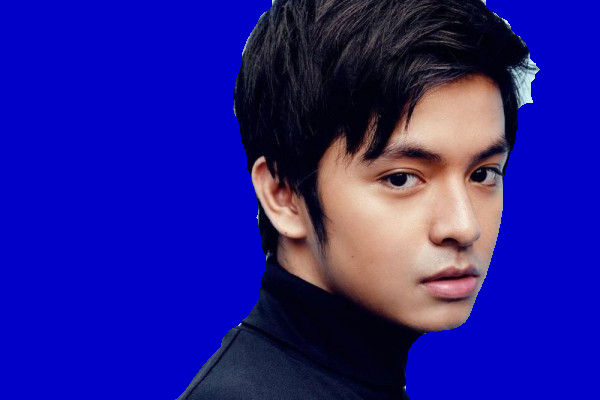
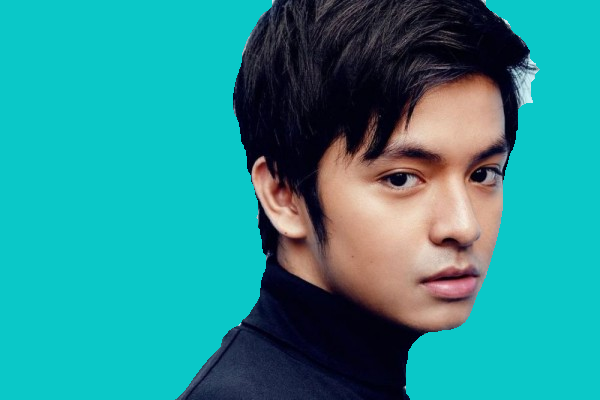
perbarui

diff --git a/backend.py b/backend.py
@@ -1,7 +1,6 @@
 from Gui import Gui, GuiEventListener
 import numpy as np
 import cv2 as cv
-import time
 from matplotlib import pyplot as plt
 import sys
 from PIL import Image
@@ -25,19 +24,23 @@ class Backend(GuiEventListener):
         self.__window = window
 
     def Remove(self, file):
+        # Membaca file gambar
         img = cv.imread(file)
         original = img.copy()
 
+        # deteksi edge object
         blur = cv.GaussianBlur(img, (3, 3), 0)
         gray = cv.cvtColor(blur, cv.COLOR_BGR2GRAY)
         l, thresh_im = cv.threshold(gray, 0, 255, cv.THRESH_BINARY  + cv.THRESH_OTSU)
         u = 0.5*l
         edges = cv.Canny(gray, l, u)
 
+        # melakukan morphologu close
         _, thresh = cv.threshold(edges, 0, 255, cv.THRESH_BINARY + cv.THRESH_OTSU)
         kernel = cv.getStructuringElement(cv.MORPH_ELLIPSE, (7, 7))
         mask = cv.morphologyEx(thresh, cv.MORPH_CLOSE, kernel, iterations=4)
 
+        # membuat gabar object maskin
         data =   mask.tolist()
         for i in  range(len(data)):
             for j in  range(len(data[i])):
@@ -49,8 +52,7 @@ class Backend(GuiEventListener):
                 if data[i][j] !=  255:
                     data[i][j] =  -1
                 else:
-                    break
-                    
+                    break                    
         image = np.array(data)
         image[image !=  -1] =  255
         image[image ==  -1] =  0
@@ -59,14 +61,19 @@ class Backend(GuiEventListener):
         kernel = np.ones((5,5), np.uint8)
         mask = cv.morphologyEx(mask, cv.MORPH_ERODE, kernel)
 
+
+        # Melakukan maskin terhadap gambar ori dengan gambar maskin
         result = cv.bitwise_and(original, original, mask=mask)
         result[mask == 0] = 255
 
+        # Menyimpan hasil maskin
         cv.imwrite('tmp/mask.png', result)
         img = Image.open('tmp/mask.png')
         img.convert("RGBA")
         datas = img.getdata()
 
+        # Ubah warna backGround
+        # warna putih di anggap background
         newData = []
         for item in datas:
             if item[0] ==  255  and item[1] ==  255  and item[2] ==  255:
@@ -75,17 +82,18 @@ class Backend(GuiEventListener):
                                 int(self.__window.n_blue.get()), 255))
             else:
                 newData.append(item)
-
         img.putdata(newData)
-        
+
+        #simpan Gambar
         img.save("result/"+self.__window.input_name.get(), "PNG")
+
+        #tampilkan Hasil di gui
         self.__window.imgAfter = tk.PhotoImage(file="result/"+self.__window.input_name.get())
         self.__window.imgAfter = self.__window.imgAfter.subsample(2)
         self.__window.canvas_after.create_image(50,10,image=self.__window.imgAfter, anchor = "nw")
 
     def on_click_btn_file(self, event: tk.Event):
         filename = askopenfilename()
-        time.sleep(2)
         self.__window.lbl_file['text'] = filename
         self.__window.imgBefore = tk.PhotoImage(file=filename)
         self.__window.imgBefore = self.__window.imgBefore.subsample(2)

diff --git a/main.py b/main.py
@@ -1,5 +1,5 @@
 from Gui import Gui
-from backend import Backend
+from Backend import Backend
 
 class Main:
     @staticmethod
